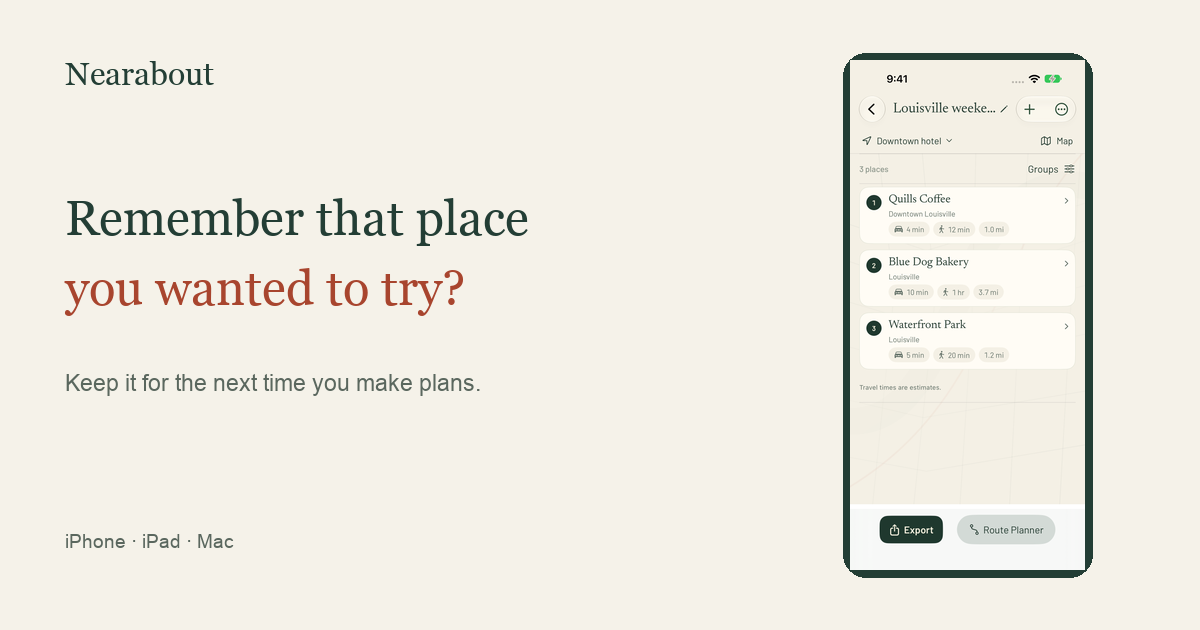
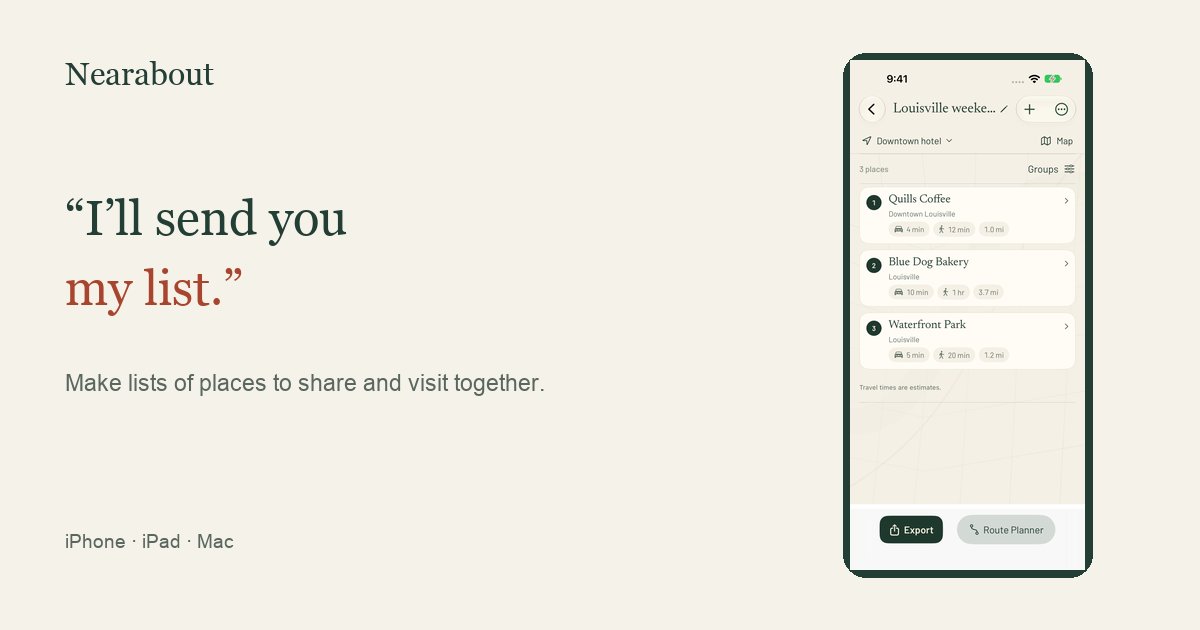
Center Nearabout on sharing your places and making plans

Changed region(s): [[0.0617, 0.3016, 0.4625, 0.3921], [0.0617, 0.4222, 0.4008, 0.5127], [0.0617, 0.573, 0.4625, 0.6333]]

diff --git a/site/nearabout/index.html b/site/nearabout/index.html
@@ -3,11 +3,11 @@
 <head>
   <meta charset="utf-8">
   <meta name="viewport" content="width=device-width, initial-scale=1">
-  <title>Nearabout — Remember the places you want to try</title>
-  <meta name="description" content="Collect places to try, keep your recommendations together, and share a useful list. Nearabout for iPhone, iPad, and Mac.">
+  <title>Nearabout — Make lists of places to share</title>
+  <meta name="description" content="Put together your places and recommendations to share with others, plan a trip, or spend an afternoon together. Nearabout for iPhone, iPad, and Mac.">
   <link rel="canonical" href="https://brianrenshaw.app/nearabout/">
-  <meta property="og:title" content="Nearabout — Remember the places you want to try">
-  <meta property="og:description" content="Keep the places you want to try and the recommendations you want to share.">
+  <meta property="og:title" content="Nearabout — Make lists of places to share">
+  <meta property="og:description" content="Make lists of your places, add your recommendations, and share them with others or use them to make plans.">
   <meta property="og:type" content="website">
   <meta property="og:url" content="https://brianrenshaw.app/nearabout/">
   <meta property="og:image" content="https://brianrenshaw.app/nearabout/assets/social.png">
@@ -26,8 +26,8 @@
     <section class="hero" aria-labelledby="hero-title">
       <div class="hero-copy wrap">
         
-        <h1 id="hero-title">Remember that place<br><em>you wanted to try?</em></h1>
-        <p class="intro">A friend mentions a restaurant. You pass a little coffee shop. Save them in Nearabout, with a note about why you want to go, and come back when you’re making plans.</p>
+        <h1 id="hero-title">“I’ll send you<br><em>my list.”</em></h1>
+        <p class="intro">You know where you’d send a friend for coffee, dinner, or an afternoon out. Gather those places in Nearabout, add your recommendations, and share a list—or use it to make plans together.</p>
         <a class="button" href="#how-it-works">See how Nearabout works <span aria-hidden="true">↓</span></a>
         <p class="platforms">For iPhone, iPad, and Mac</p>
       </div>
@@ -42,10 +42,10 @@
       <p class="hero-caption wrap">Keep your lists with you on iPhone, iPad, and Mac.</p>
     </section>
     <section class="story wrap" id="how-it-works" aria-labelledby="story-title">
-      <div class="section-intro"><h2 id="story-title">“Where would you<br>recommend?”</h2><p>When a friend asks where to eat, you want to send more than a name. Keep your favorites with a few notes about what you loved or what to order. Then share the whole list.</p></div>
+      <div class="section-intro"><h2 id="story-title">“Where would you<br>recommend?”</h2><p>The place you take everyone who visits. The bakery worth getting up early for. Make a list with what to order, when to go, and why you recommend it. When someone asks, you have something personal to send.</p></div>
       <ol class="steps">
         <li><span class="number" aria-hidden="true">01</span><h3>Start with a few places.</h3><p>Type or paste names, addresses, or categories like “bakery.” Choose the right locations from the matches.</p></li>
-        <li><span class="number" aria-hidden="true">02</span><h3>Add your notes.</h3><p>Leave a note for yourself or for the person you’ll share it with. You can group places and come back to the list anytime.</p></li>
+        <li><span class="number" aria-hidden="true">02</span><h3>Add your notes.</h3><p>Add what you’d tell someone about each place. Group your list by restaurants, coffee shops, stores, or whatever makes sense for the plans.</p></li>
         <li><span class="number" aria-hidden="true">03</span><h3>Share the list.</h3><p>Send a list with your notes, addresses, and map links. The person receiving it can open a place right from the list.</p></li>
       </ol>
     </section>
@@ -53,7 +53,7 @@
       <h2 id="possibilities-title">What have you<br>got planned?</h2>
       <div class="use-cases">
         <article><h3>A vacation you’ve been looking forward to.</h3><p>Collect the restaurants, coffee shops, and stores you want to visit, and give each its own group. When you’re there, pick a few for the day and let the route planner help with the order.</p></article>
-        <article><h3>A friend who trusts your taste.</h3><p>Keep the places people recommend alongside the ones you already love. When someone asks where to eat, send a helpful text with your notes and links to the places.</p></article>
+        <article><h3>A friend who trusts your taste.</h3><p>Put together the places you’d recommend, with a few words about each. When someone asks where to eat, send your list in a helpful text with notes and map links.</p></article>
         <article><h3>Getting to know what’s around you.</h3><p>Start from where you are or any address you choose. Make a list of nearby places with distances and travel times—for yourself, for someone visiting, or to share in a post.</p></article>
         <article><h3>An afternoon with a few stops.</h3><p>Five errands before pickup. A bar crawl with friends. Or a free afternoon with somewhere good to eat along the way. Put the places together, then work out an order when you’re ready.</p></article>
       </div>

diff --git a/scripts/build_nearabout_social.py b/scripts/build_nearabout_social.py
@@ -13,9 +13,9 @@ def text(x, y, copy, size, color='#233e35', face='Georgia.ttf'):
     draw.text((x, y), copy, fill=color, font=ImageFont.truetype(str(fonts / face), size))
 
 text(65, 55, 'Nearabout', 32)
-text(65, 190, 'Remember that place', 49)
-text(65, 260, 'you wanted to try?', 49, '#a8452e')
-text(65, 370, 'Keep it for the next time you make plans.', 23, '#5a675e', 'Arial.ttf')
+text(65, 190, '“I’ll send you', 49)
+text(65, 260, 'my list.”', 49, '#a8452e')
+text(65, 370, 'Make lists of places to share and visit together.', 23, '#5a675e', 'Arial.ttf')
 text(65, 530, 'iPhone · iPad · Mac', 19, '#5a675e', 'Arial.ttf')
 shot = Image.open(ASSETS / 'iphone-list.webp').convert('RGB')
 shot.thumbnail((235, 510), Image.Resampling.LANCZOS)

diff --git a/NEARABOUT_HOSTING.md b/NEARABOUT_HOSTING.md
@@ -17,22 +17,23 @@ Cloudflare reference: https://developers.cloudflare.com/pages/configuration/cust
 
 ## Message and design
 
-The owner clarified that Nearabout is primarily for making personal lists of
-places to try and sharing recommendations. Routes are optional supporting utility.
+The owner clarified that Nearabout is for cataloging your places to share with
+others and make plans. It is not positioned as a personal favorites app for saving
+new discoveries. Vacation research remains a use case. Routes support the plans.
 The owner explicitly rejected slogan copy, including “Keep the recommendation.
 Skip the hunt.” and “Good places deserve a place of their own.” Do not restore
 those phrases or imitate that style with all-caps labels and punchy abstractions.
 
-Write like a person: remembering a restaurant someone mentioned, looking forward
-to trying it, and sending thoughtful recommendations to a friend. The homepage
-opens with “Remember that place you wanted to try?” and explains what the app does
-in the paragraph immediately below. Plain three-step instructions follow the
-personal reason to use the app. Routes appear last among the supporting uses.
+Write like a person: sending a friend your recommendations, showing someone around,
+and putting together plans. The homepage opens with “I’ll send you my list.” and
+explains gathering places, adding context, sharing, and planning immediately below.
+Plain three-step instructions follow the personal reason to use the app.
 
-StoryBrand informs the structure, not the vocabulary: the visitor wants to remember
-and share places; recommendations are easy to lose; Nearabout helps them collect
-places, add context, and share a usable list. Avoid exaggerated stakes, fabricated
-testimonials, guaranteed time savings, and a long feature inventory.
+StoryBrand informs the structure, not the vocabulary: the visitor knows places they
+want to share or visit together; putting those recommendations into something useful
+takes effort; Nearabout helps them make a list with context and map links, then share
+it or make plans from it. Avoid exaggerated stakes, fabricated testimonials,
+guaranteed time savings, and a long feature inventory.
 Reference: https://storybrand.com/downloads/your-brand-is-not-the-hero.pdf
 
 Visual direction: a restrained street atlas with paper, forest green, vermilion,

diff --git a/MESSAGING.md b/MESSAGING.md
@@ -509,10 +509,12 @@ Pricing: say nothing about Decks Pro, trials, or which features are paid. Brian 
 The Aura page is short on purpose: problem in one sentence, a six-step plan with one line per step, the result, one call to action. Do not add notes under sections, a tips list, or more than five FAQs. Steps use iPhone captures with the control in question spotlighted. Text on example compositions sits in the margin, not on the photo, and uses a plain line rather than a slogan.
 # Nearabout
 
-Nearabout helps people keep places to try and share personal recommendations.
-Lead with remembering a place someone mentioned and having thoughtful suggestions
-ready for a friend. Lists, personal notes, and sharing are primary. Travel estimates
-and route planning are supporting options, not the product's main story.
+Nearabout helps people catalog their places and recommendations to share with
+others and make plans. Lead with the care in sending someone your list, introducing
+them to places you recommend, and planning time together. Do not position Nearabout
+as a personal favorites app or lead with remembering new places to try. Vacation
+research is still a use case. Lists, context, sharing, and plans are primary; travel
+estimates and route planning support those purposes.
 
 The owner explicitly rejects marketing slogans and all-caps tagline sequences.
 Use natural sentences, specific human moments, and understated emotion. See
